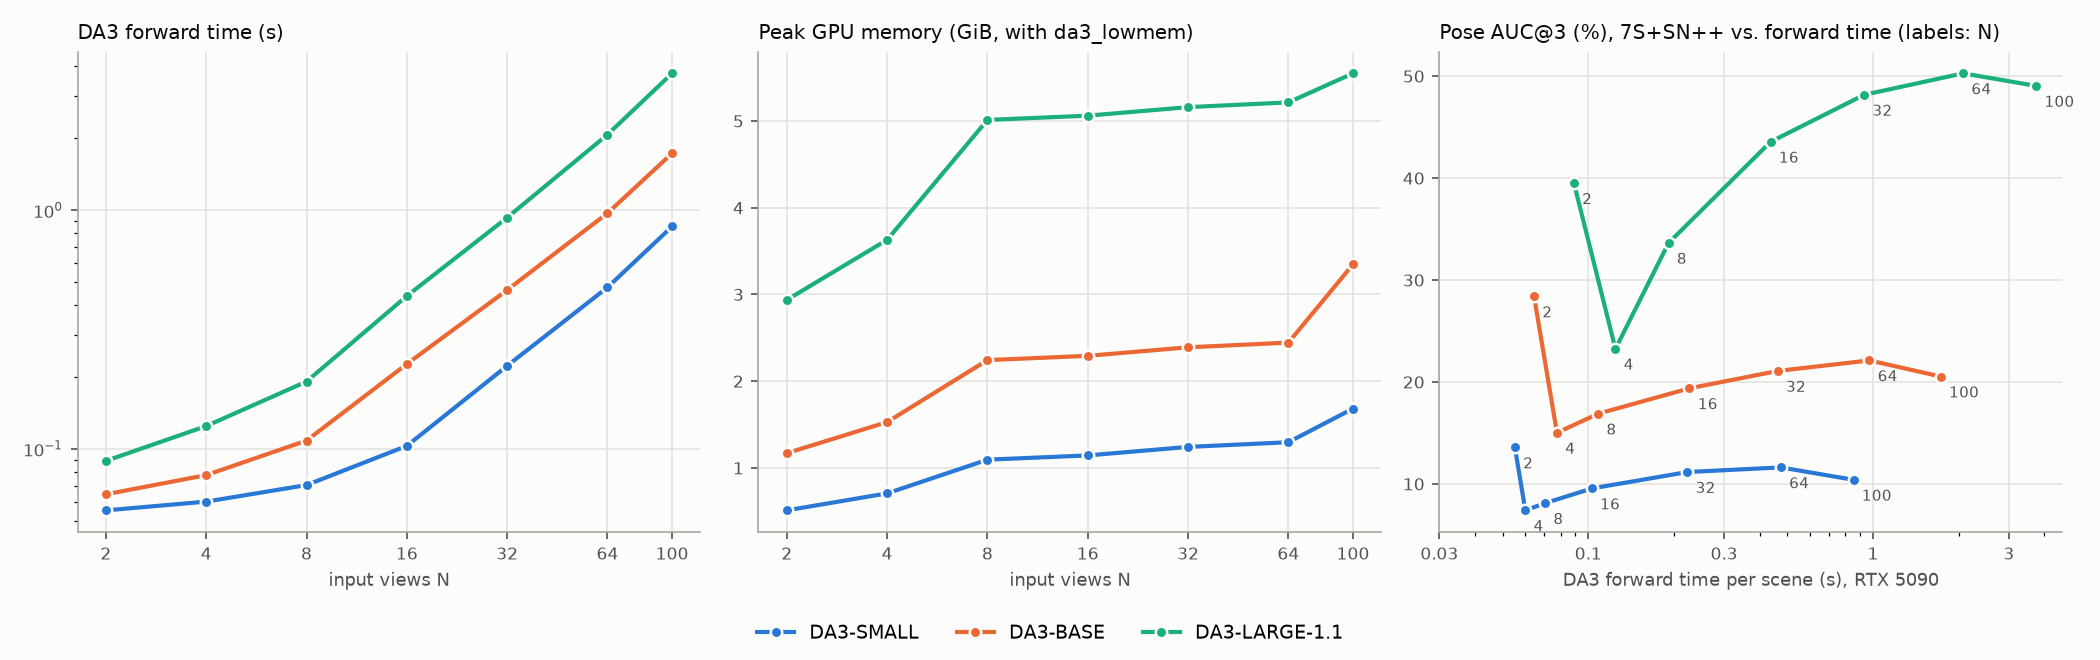
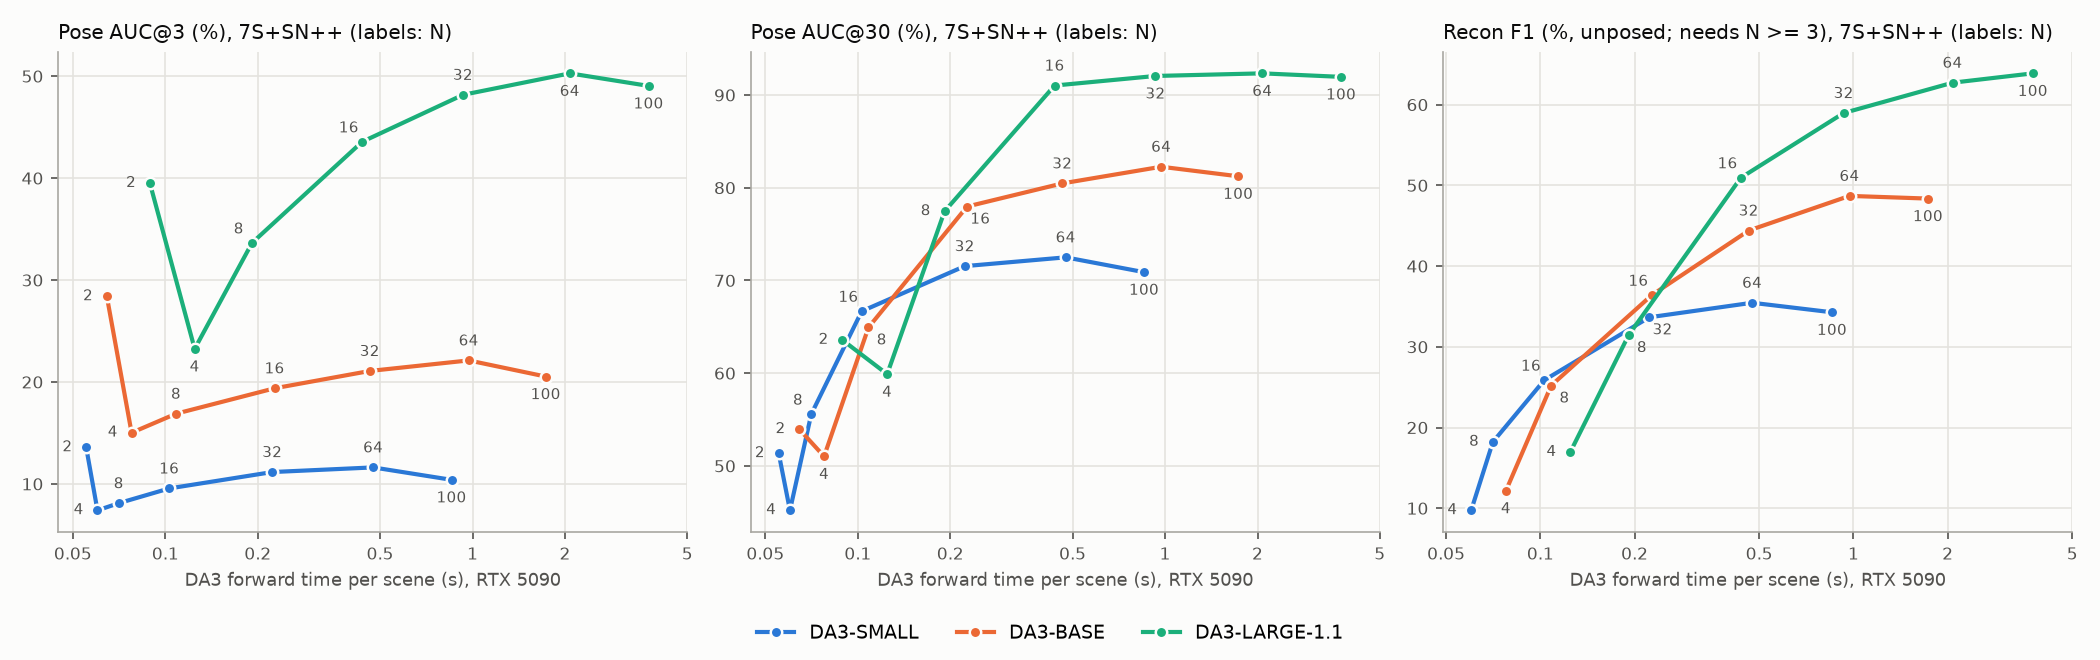
update plot_views script

diff --git a/scripts/plot_views.py b/scripts/plot_views.py
@@ -14,6 +14,7 @@ import statistics
 import sys
 
 import matplotlib.pyplot as plt
+import numpy as np
 
 MODELS = {"DA3-SMALL": "#2a78d6", "DA3-BASE": "#eb6834", "DA3-LARGE-1.1": "#1baf7a"}  # categorical slots 1-3, as plot_compute.py
 VIEWS = ["2", "4", "8", "16", "32", "64", "all"]
@@ -151,29 +152,60 @@ def quality_figure(root, models, path, targets=False):
     fig.savefig(path, dpi=150)
 
 
+def label_points(ax, labels, radius=9):
+    """Write each (text, x, y) next to its marker, on the side farthest from all curves and the labels placed so far.
+
+    Call it after the layout is final: it works in display pixels."""
+    scale = ax.figure.dpi / 72  # pixels per point
+    segments = [(a, b) for line in ax.get_lines() for c in [ax.transData.transform(line.get_xydata())] for a, b in zip(c[:-1], c[1:])]
+    placed = []
+
+    def clearance(p):
+        d = [np.linalg.norm(p - a - np.clip(np.dot(p - a, b - a) / max(np.dot(b - a, b - a), 1e-9), 0, 1) * (b - a)) for a, b in segments]
+        return min(d + [np.linalg.norm(p - q) for q in placed])
+
+    for text, x, y in labels:
+        marker = ax.transData.transform((x, y))
+        half = np.array([2.2 * len(text), 3.5]) * scale  # half the size of the 7 pt text
+        corners = [half * s for s in ((0, 0), (-1, -1), (-1, 1), (1, -1), (1, 1))]
+        best, best_score = None, -1
+        for angle in np.deg2rad(range(-45, 315, 45)):  # first candidate: below right
+            offset = radius * np.array([np.cos(angle), np.sin(angle)])
+            box = [marker + offset * scale + c for c in corners]
+            if not all(ax.bbox.contains(*p) for p in box):
+                continue
+            score = min(clearance(p) for p in box)
+            if score > best_score:
+                best, best_score, best_box = offset, score, box
+        placed += best_box
+        ax.annotate(text, (x, y), textcoords="offset points", xytext=best, ha="center", va="center", fontsize=7, color=MUTED)
+
+
 def compute_figure(root, models, path):
-    fig, axes = plt.subplots(1, 3, figsize=(14, 4.4), facecolor=SURFACE)
+    """Quality vs. DA3 forward time, one curve per model, points labelled with N."""
+    quality = [("pose", "auc03", "Pose AUC@3 (%)"), ("pose", "auc30", "Pose AUC@30 (%)"),
+               ("recon_unposed", "fscore", "Recon F1 (%, unposed; needs N >= 3)")]
+    fig, axes = plt.subplots(1, len(quality), figsize=(14, 4.4), facecolor=SURFACE)
+    labels = {ax: [] for ax in axes}
     for model in models:
         t = timings(root, model)
         vs = [v for v in VIEWS if v in t]
-        xs = [x_of(v) for v in vs]
         kw = dict(color=MODELS[model], lw=2, marker="o", ms=5.5, mec=SURFACE, mew=1.2, label=model)
-        axes[0].plot(xs, [t[v][0] for v in vs], **kw)
-        axes[1].plot(xs, [t[v][1] for v in vs], **kw)
-        pts = [(t[v][0], pooled(root, model, f"n{v}", "pose", "auc03")) for v in vs]
-        pts = [(a, b) for a, b in pts if b is not None]
-        axes[2].plot(*zip(*pts), **kw)
-        for v, (a, b) in zip(vs, pts):
-            axes[2].annotate(str(x_of(v)), (a, b), textcoords="offset points", xytext=(4, -10), fontsize=7, color=MUTED)
-    style(axes[0], "DA3 forward time (s)")
-    axes[0].set_yscale("log")
-    style(axes[1], "Peak GPU memory (GiB, with da3_lowmem)")
-    style(axes[2], "Pose AUC@3 (%), 7S+SN++ vs. forward time (labels: N)", xlabel="DA3 forward time per scene (s), RTX 5090")
-    axes[2].set_xscale("log")
-    axes[2].set_xticks([0.03, 0.1, 0.3, 1, 3], ["0.03", "0.1", "0.3", "1", "3"])
-    handles, labels = axes[0].get_legend_handles_labels()
-    fig.legend(handles, labels, loc="lower center", ncol=3, frameon=False, fontsize=9)
+        for ax, (mode, key, _) in zip(axes, quality):
+            pts = [(v, t[v][0], pooled(root, model, f"n{v}", mode, key)) for v in vs]
+            pts = [p for p in pts if p[2] is not None]
+            ax.plot([p[1] for p in pts], [p[2] for p in pts], **kw)
+            labels[ax] += [(str(x_of(v)), a, b) for v, a, b in pts]
+    for ax, (_, _, title) in zip(axes, quality):
+        style(ax, f"{title}, 7S+SN++ (labels: N)", xlabel="DA3 forward time per scene (s), RTX 5090")
+        ax.set_xscale("log")
+        ax.set_xticks([0.05, 0.1, 0.2, 0.5, 1, 2, 5], ["0.05", "0.1", "0.2", "0.5", "1", "2", "5"])
+        ax.minorticks_off()
+    handles, names = axes[0].get_legend_handles_labels()
+    fig.legend(handles, names, loc="lower center", ncol=3, frameon=False, fontsize=9)
     fig.tight_layout(rect=(0, 0.07, 1, 1))
+    for ax in axes:
+        label_points(ax, labels[ax])
     fig.savefig(path, dpi=150)
 
 
